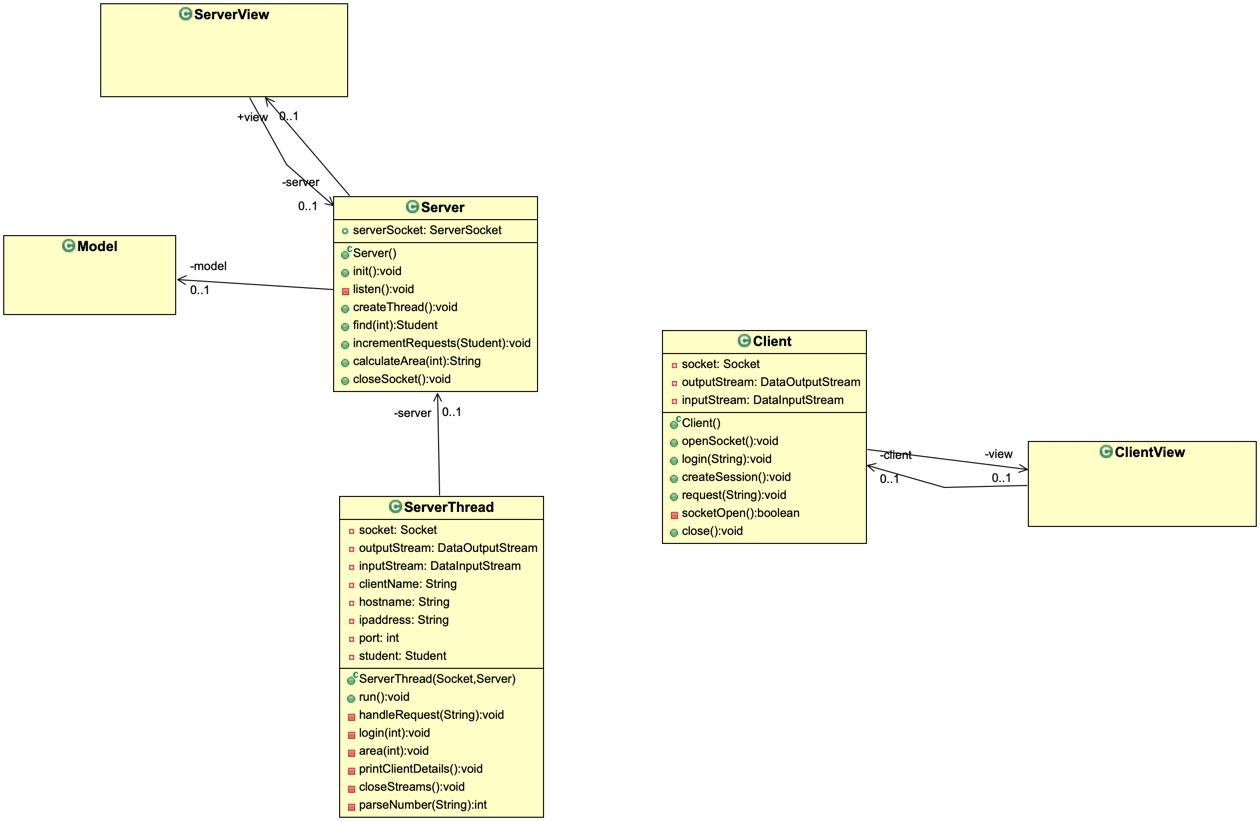
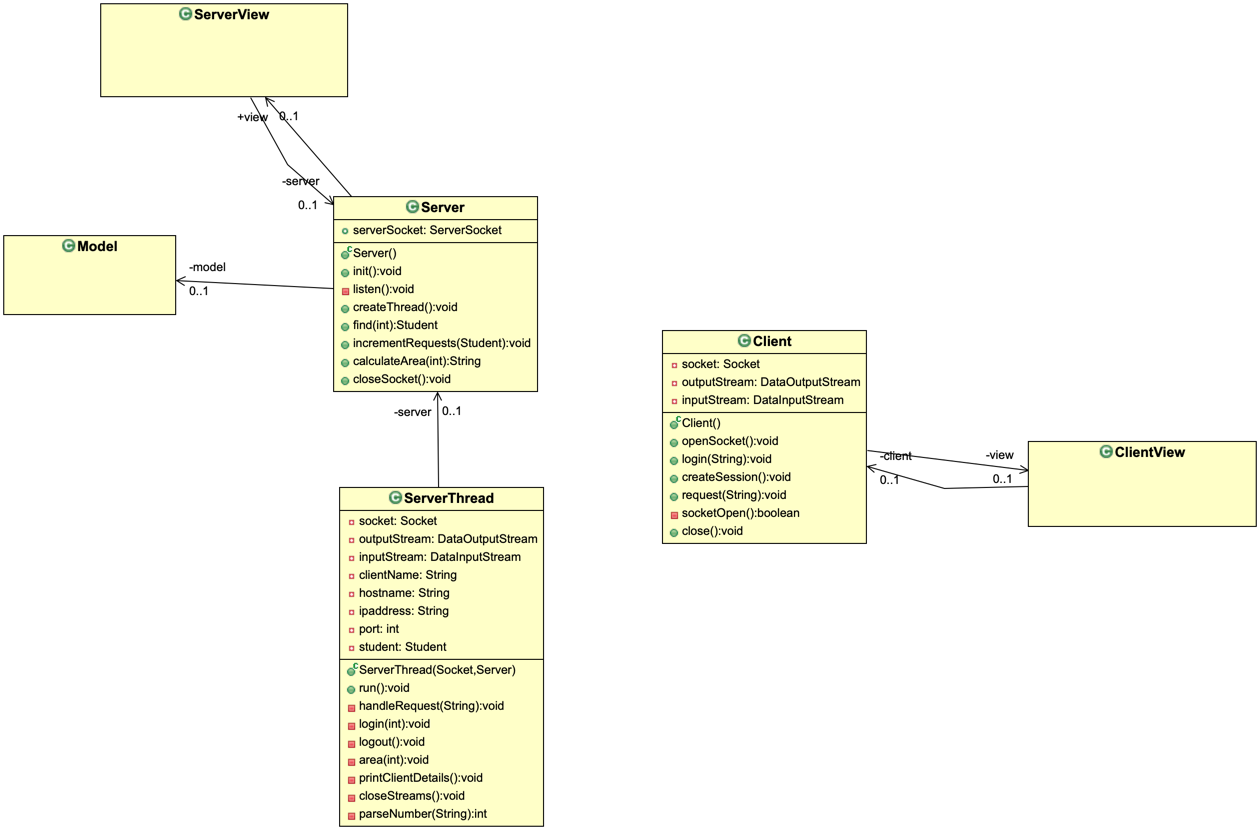
chore: add final touches

diff --git a/src/controllers/ServerThread.java b/src/controllers/ServerThread.java
@@ -8,7 +8,6 @@ import java.net.Socket;
 
 import models.Student;
 import utils.Timestamp;
-import views.ClientView;
 
 /**
  * ServerThread class for managing new threads
@@ -116,6 +115,11 @@ public class ServerThread extends Thread {
 	 * @throws IOException
 	 */
 	private void handleRequest(String payload) throws IOException {
+		if(payload.equals("logout")) {
+			logout();
+			return;
+		}
+		
 		// convert the payload from a string to a number
 		int number = parseNumber(payload);
 		
@@ -169,6 +173,31 @@ public class ServerThread extends Thread {
 			"Welcome " + student.firstname + " " + student.lastname
 			+ "! You are now connected to the Server. \n"
 			+ "Please enter the radius of a circle\n"
+		);
+	}
+	
+	/**
+	 * Function for creating a new session for a student
+	 * so they they can send requests to the server
+	 * for calculating the area of a circle
+	 * 
+	 * @param studentNumber - id for authentication
+	 * @throws IOException
+	 */
+	private void logout() throws IOException {
+		outputStream.writeUTF("[Server] Logging out student number: " + student.student_id + "\n");
+		printClientDetails();
+		server.view.log("Logout request with student id: " + student.student_id + "\n");
+
+		// set the session user
+		this.student = null;
+		server.view.log(Timestamp.now() + "\n");
+		server.view.log("[Response] Logout successful\n\n");
+		// inform the client that login was successful
+		outputStream.writeBoolean(false);
+		// provide feedback message
+		outputStream.writeUTF(
+			"Thank you, you have been logged out\n"
 		);
 	}
 	

diff --git a/README.md b/README.md
@@ -1,2 +1,41 @@
 # MultiThreadedServer
-Distributed Systems Assignment 2
+
+Distributed systems assignment 2
+The repo for this project can be found on
+https://github.com/kingsleyzissou/MultiThreadedServer.
+
+## Description
+
+![](img/multiclient.png)
+
+This app is a mutlithreaded client/server app. Each new client opens up a new thread on the server and communicates to the server via sockets. Only authenticated students can make requests to the server for the calculation of the area of a circle. 
+
+## NB
+
+My local database forced me to create a password for the database connection,
+otherwise connection to the database was refused. I have set the password to `root`.
+
+Please modify the password field in the `core/DBConnection` class as required.
+
+## Usage
+
+![](img/login.png)
+
+To be able to send a request to the server to calculate the area of the circle, you need to be logged in. Enter the login details in the textfield provided. Once logged in, you will see a welcome message and the texfield has changed to accept input for the radius of a circle.
+
+![](img/area.png)
+
+You can now enter in the radius of the circle and a request will be sent to the server through a socket connection, the response will be printed in the client GUI.
+
+![](img/area_response.png)
+
+All events from the various clients are logged to the server, with the client name, the ip address and the host name of the client, along with the timestamps of the given request.
+
+![](img/server.png)
+
+## Error Handling
+
+A student not in the database will not be authenticated and will not be taken to the screen where they can make requests to the server for the area of a circle.
+
+![](img/error.png)
+
